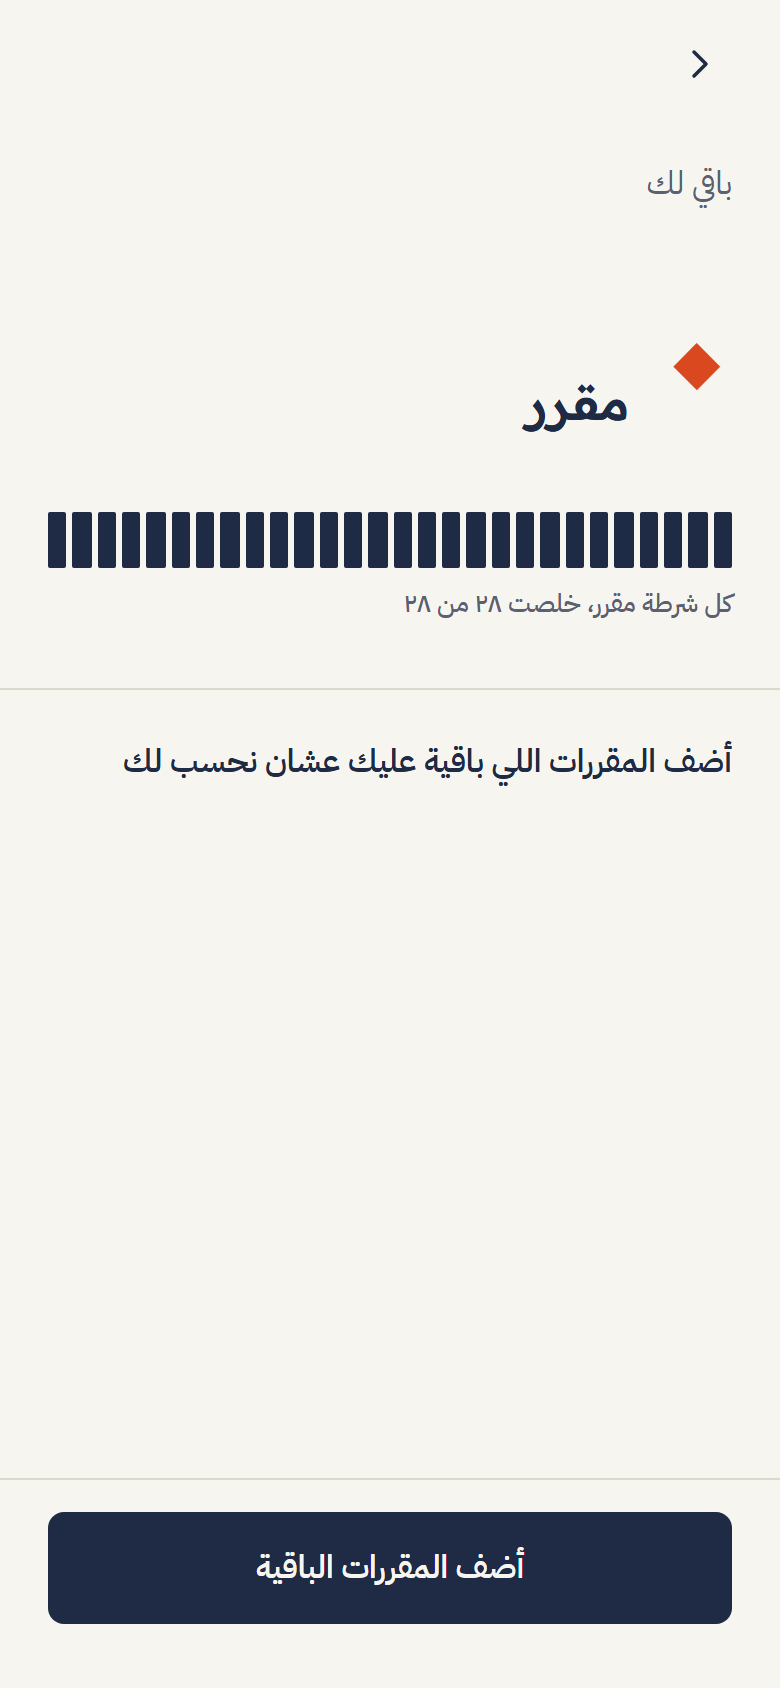
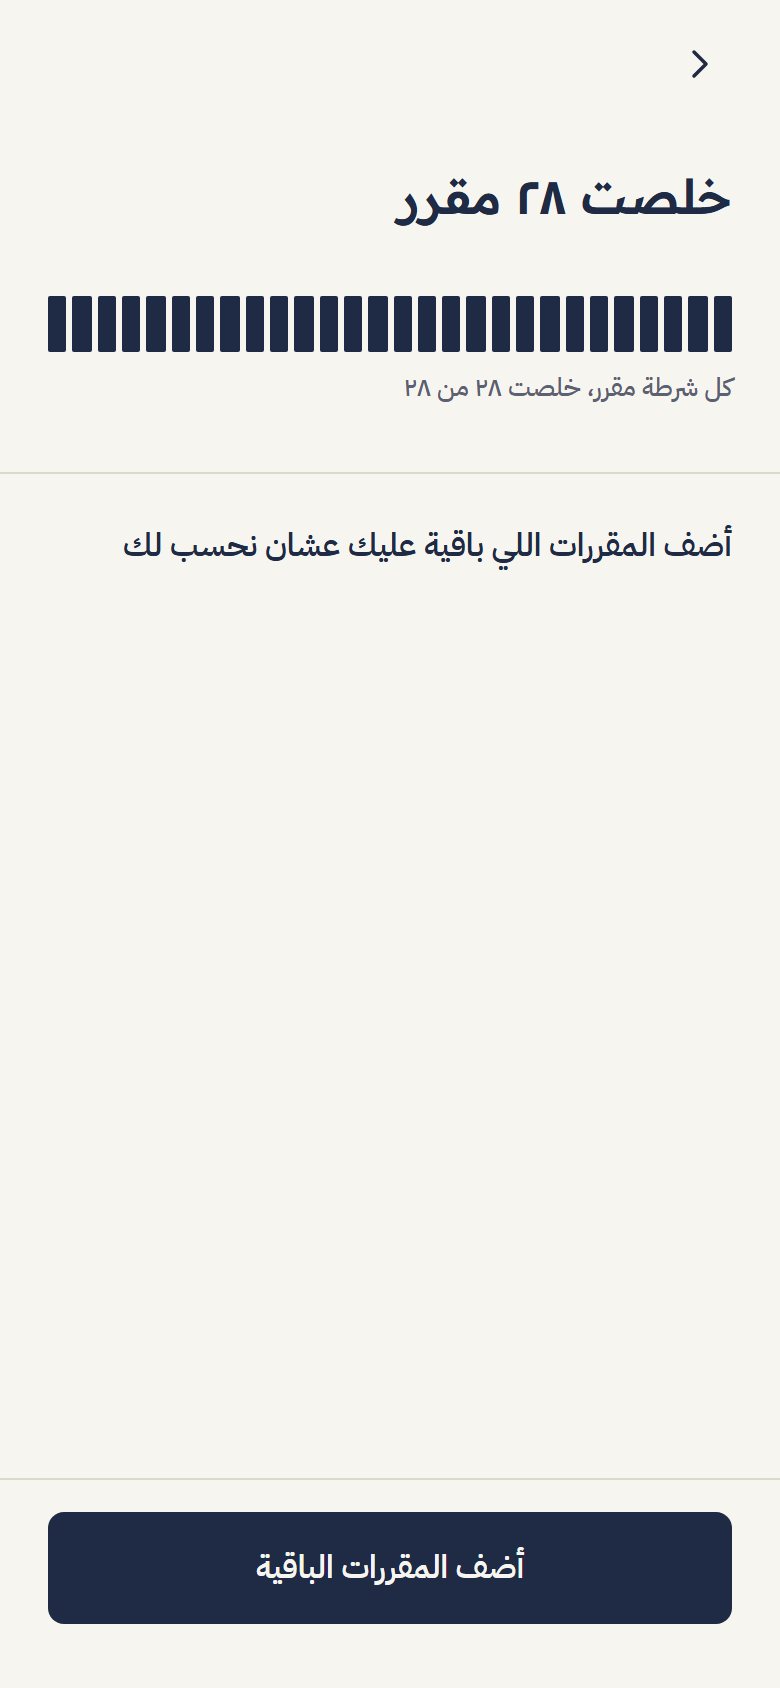
Screen 3: transcript-only plan shows «خلصت {n} مقرر» instead of the remaining number
- Rule 17b: the red «باقي لك ٠ مقرر» is replaced in the same place by
  «خلصت {n|course}» in ink, so it no longer contradicts «أضف المقررات اللي باقية عليك»
- New text in strings.js and HANDOFF §8; check and screenshots updated
- CLAUDE.md: real on-device transcript reading is now in scope; pdf.js in the stack

Changed region(s): [[0.0615, 0.0924, 0.9538, 0.3697], [0.4615, 0.4313, 0.9538, 0.4621], [0.1538, 0.4313, 0.4308, 0.4621]]

diff --git a/web/src/features/remaining/RemainingScreen.jsx b/web/src/features/remaining/RemainingScreen.jsx
@@ -75,11 +75,18 @@ export default function RemainingScreen() {
           </>
         ) : (
           <>
-            <p className="subtitle">{t('remaining.label')}</p>
-            <div className="remaining-number">
-              <span className="remaining-number__value">{fmtNumber(summary.remaining)}</span>
-              <span className="remaining-number__unit">{t('remaining.unit', { n: summary.remaining })}</span>
-            </div>
+            {onlyTranscript ? (
+              // Rule 17b: «باقي لك ٠ مقرر» would contradict «أضف المقررات اللي باقية عليك», so say what is done.
+              <p className="remaining-number remaining-number--done">{t('remaining.transcriptOnly.done', { n: summary.completed })}</p>
+            ) : (
+              <>
+                <p className="subtitle">{t('remaining.label')}</p>
+                <div className="remaining-number">
+                  <span className="remaining-number__value">{fmtNumber(summary.remaining)}</span>
+                  <span className="remaining-number__unit">{t('remaining.unit', { n: summary.remaining })}</span>
+                </div>
+              </>
+            )}
             {summary.total > 0 && (
               <div className="remaining-ticks">
                 <TickBar total={summary.total} filled={summary.completed} dense={summary.total > DENSE_THRESHOLD} label={ticksLabel} />

diff --git a/web/scripts/checks/transcript-ui.js b/web/scripts/checks/transcript-ui.js
@@ -62,6 +62,10 @@ if (name === 'transcript-ar-en.pdf' && !withSample) {
     const h = plain(document.querySelector('.remaining-message h2').textContent);
     check(h === 'أضف المقررات اللي باقية عليك عشان نحسب لك', 'screen 3: ' + h);
     check(!plain(document.body.textContent).includes('خلصت خطتك كلها'), 'screen 3 does not say «خلصت خطتك كلها»');
+    const done = document.querySelector('.remaining-number--done');
+    check(plain(done?.textContent) === 'خلصت ٢٨ مقرر' && !document.querySelector('.remaining-number__value'), 'screen 3 top: «خلصت ٢٨ مقرر», no «باقي لك ٠» number');
+    const ink = getComputedStyle(document.documentElement).getPropertyValue('--color-ink').trim();
+    log.push(`INFO «خلصت» colour ${getComputedStyle(done).color}, ink token ${ink}`);
     const btn = document.querySelector('.btn-primary');
     log.push('INFO screen 3 button: ' + plain(btn.textContent));
     btn.click();

diff --git a/web/src/lib/strings.js b/web/src/lib/strings.js
@@ -147,6 +147,7 @@ const STRINGS = {
   'remaining.empty.title': 'حسب اللي أدخلته، خلصت خطتك كلها',
   'remaining.empty.body': 'قبل ما تقدّم على التخرج، تأكد من القسم إن خطتك ما ينقصها مقرر وإن ساعاتك مكتملة.',
   'remaining.empty.button': 'راجع مقرراتي',
+  'remaining.transcriptOnly.done': 'خلصت {n|course}',
   'remaining.transcriptOnly.title': 'أضف المقررات اللي باقية عليك عشان نحسب لك',
   'remaining.transcriptOnly.button': 'أضف المقررات الباقية',
   'remaining.loading': 'نحسب اللي باقي لك…',

diff --git a/web/src/features/remaining/remaining.css b/web/src/features/remaining/remaining.css
@@ -15,6 +15,8 @@
   line-height: var(--leading-display); color: var(--color-red-pen);
 }
 .remaining-number__unit { font-family: var(--font-display); font-size: var(--text-title); font-weight: var(--weight-semibold); }
+/* Transcript-only plan (HANDOFF rule 17b): «خلصت {n} مقرر» in ink, never the red remaining number. */
+.remaining-number--done { font-family: var(--font-display); font-size: var(--text-title); font-weight: var(--weight-semibold); color: var(--color-ink); }
 .remaining-ticks { margin-block-start: var(--space-3); }
 
 /* Lists */

diff --git a/HANDOFF.md b/HANDOFF.md
@@ -131,7 +131,7 @@ Storage: device only (browser local storage), no account, no server. Key name an
 16d. The upload card is disabled until a university is chosen, like «أدخل مقرراتك بنفسك» (decision 34).
 17. Transcript courses are matched to plan courses with the same normalization as rule 2. Matched → `completed: true`. Unmatched → listed for the user to add or ignore; never added silently. This partial state is shown only when the plan already had courses.
 17a. **Empty plan** (start screen): every passed course is added at once as completed, with no partial state. The list screen then shows «input.upload.added», and «+ أضف مقرر» is the primary button (next step) while every course in the plan came from the transcript.
-17b. Courses added from a transcript are saved with `source: "transcript"`. On screen 3, if every course is completed AND all came from a transcript, never say «خلصت خطتك كلها»: show «remaining.transcriptOnly.title» and the button «remaining.transcriptOnly.button» (to screen 1).
+17b. Courses added from a transcript are saved with `source: "transcript"`. On screen 3, if every course is completed AND all came from a transcript, never say «خلصت خطتك كلها»: show «remaining.transcriptOnly.title» and the button «remaining.transcriptOnly.button» (to screen 1). The big «باقي لك ٠ مقرر» number is replaced in the same place by «remaining.transcriptOnly.done» in `ink` (not `red-pen`).
 18. Only passed courses in the transcript count as completed (decision 36). Passed: A+ A B+ B C+ C D+ D P TR, أ+ أ ب+ ب ج+ ج د+ د ناجح معادل. Not passed: F W WF I IP NP, هـ ح منسحب غير مكتمل.
 18a. **Repeats:** a course that appears more than once counts as completed if any attempt passed; the latest passing attempt wins (its name is used).
 18b. **Privacy:** the file is read on the device only (no server, no outside website, no API) and never kept. pdf.js is loaded only after a file is picked.
@@ -264,6 +264,7 @@ Storage: device only (browser local storage), no account, no server. Key name an
 | remaining.edit | عدّل مقرراتي |
 | remaining.empty.title | حسب اللي أدخلته، خلصت خطتك كلها |
 | remaining.empty.body | قبل ما تقدّم على التخرج، تأكد من القسم إن خطتك ما ينقصها مقرر وإن ساعاتك مكتملة. |
+| remaining.transcriptOnly.done | خلصت {n|course} |
 | remaining.transcriptOnly.title | أضف المقررات اللي باقية عليك عشان نحسب لك |
 | remaining.transcriptOnly.button | أضف المقررات الباقية |
 | remaining.empty.button | راجع مقرراتي |

diff --git a/CLAUDE.md b/CLAUDE.md
@@ -10,8 +10,8 @@ Must stories (demo = story 3):
 3. See a simple suggested order for the remaining courses (never claim it is the shortest path, never show a date).
 
 Screens (HANDOFF.md §2): 1 أدخل خطتك → 2 علّم اللي خلصته → 3 المتبقي → 4 خطة التخرج.
-Transcript upload card: build its states, but simulate the reading from mock.json. No real PDF parsing.
-Out of scope: every university's catalog, real transcript parsing, connecting to university systems, login/accounts/cloud profiles, guaranteed shortest path or graduation dates, course availability/seats/registration, paste-list screen, English UI, AI features.
+Transcript upload card: real reading on the device with pdf.js (HANDOFF decision 36, rules 16–18b). The file never leaves the device; no server, no OCR.
+Out of scope: every university's catalog, university-specific transcript layouts, OCR of scanned transcripts, connecting to university systems, login/accounts/cloud profiles, guaranteed shortest path or graduation dates, course availability/seats/registration, paste-list screen, English UI, AI features.
 Build nothing that is not in HANDOFF.md. If I ask for something out of scope, say so before building it.
 
 ## Design
@@ -30,6 +30,7 @@ Build nothing that is not in HANDOFF.md. If I ask for something out of scope, sa
 | React Context (one shared store) | one course list shared by 4 screens | built in |
 | `localStorage` via `lib/storage.js` | courses stay on the device, no backend | built in |
 | Hash routing (`#/input`, `#/done`, `#/remaining`, `#/plan`) | 4 screens, zero packages | built in |
+| pdfjs-dist (legacy build, lazy-loaded in `lib/pdfText.js`) | reads the transcript PDF on the device | 6.5.438 (`@napi-rs/canvas` overridden to 1.1.1) |
 | npm | starter uses it | 11.20.0 (local Node 26.13.1) |
 
 Pin exact versions. If it grows: accounts or cross-device sync, add Supabase. More screens, add React Router. Logic bugs, add Vitest for `lib/`. English, add i18next. AI, a Vercel Function so the key stays off the browser.
